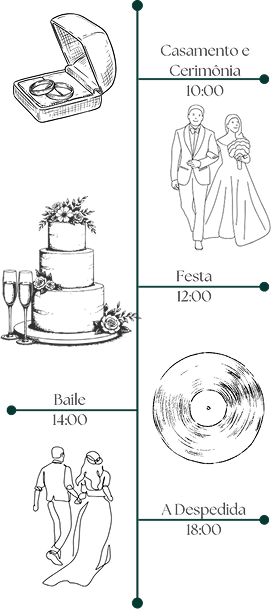
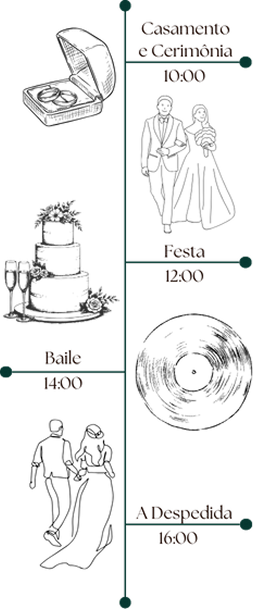
correcao nas fotos e nos horarios

Changed region(s): [[0.0, 0.0, 1.0, 1.0], [0.0277, 0.0, 0.4704, 0.2184], [0.581, 0.5304, 0.6364, 0.5616]]

diff --git a/index.html b/index.html
@@ -290,13 +290,13 @@
             padding: 0 3rem;
 
             display: grid;
-            grid-template-columns: repeat(3, 1fr); /* SEMPRE 3 colunas */
+            grid-template-columns: repeat(2, 1fr); /* SEMPRE 2 colunas */
             gap: 3rem;
         }
 
         .galeria img {
             width: 100%;
-            max-width: 15rem;
+            max-width: 20rem;
             aspect-ratio: 1 / 1;
             object-fit: cover;
             border-radius: 1.2rem;
@@ -313,18 +313,10 @@
             <img src="img/fro 3.png" id="logo-casamento2">
         </div>
         <div class="galeria">
-            <img src="img/1.png">
-            <img src="img/2.png">
-            <img src="img/3.png">
             <img src="img/4.png">
             <img src="img/5.png">
-            <img src="img/6.png">
             <img src="img/7.png">
-            <img src="img/8.png">
-            <img src="img/9.png">
             <img src="img/10.png">
-            <img src="img/11.png">
-            <img src="img/12.png">
         </div>
         <div id="logo-baixo">
         <p><i>“Revistam-se de amor, pois é o perfeito vínculo de união”.<br>
